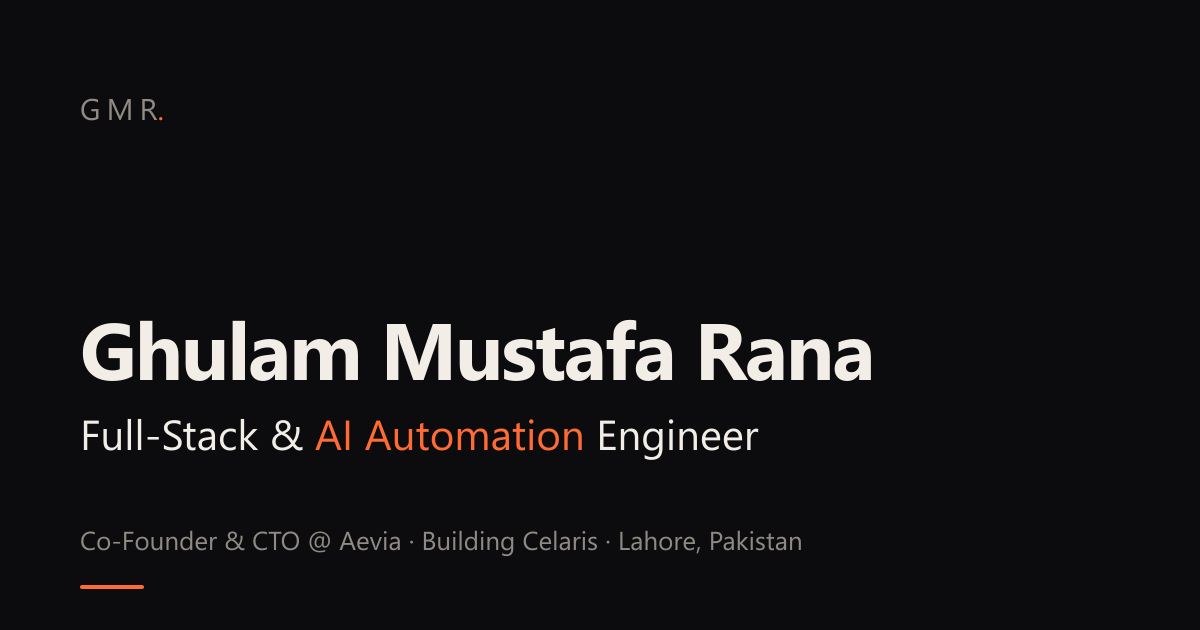
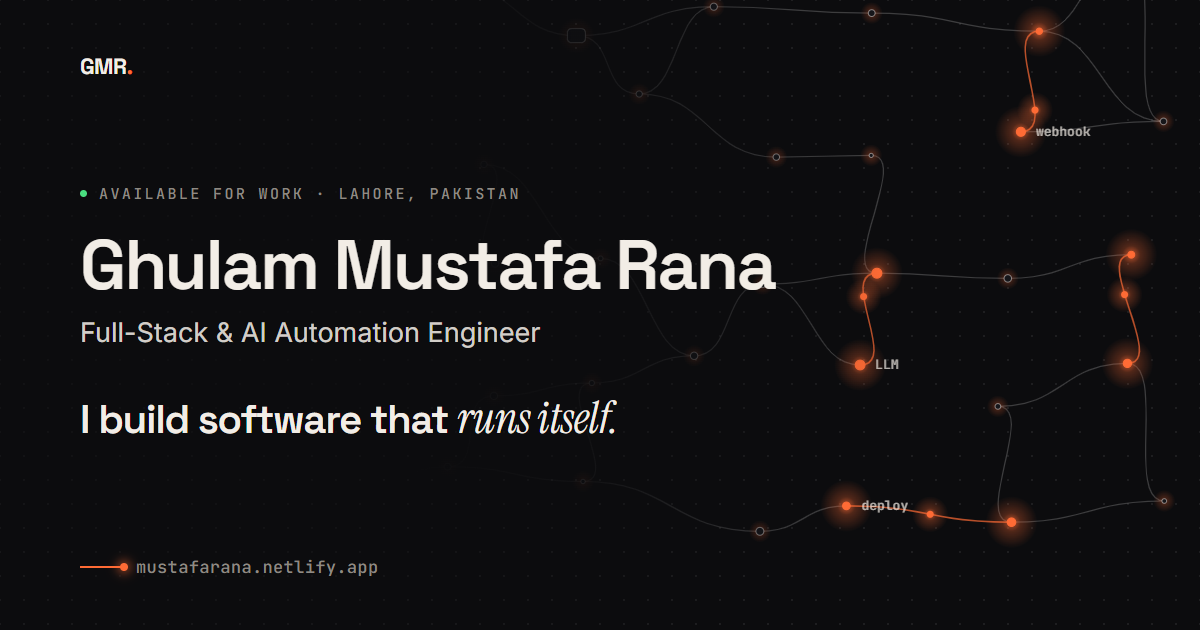
New OG image

diff --git a/README.md b/README.md
@@ -14,7 +14,9 @@ npm run dev              # http://localhost:3000
 npm run build            # static site in ./out (+ responsive WebP images)
 npm start                # serve ./out locally
 npm run prepare-images   # re-crop/compress raw files from ./images, cut out the portrait
-                         # background (@imgly, runs in its own process), regenerate og.png
+                         # background (@imgly, runs in its own process)
+npm run og-image         # public/og.png (1200×630): hero wire network + name/title/tagline in the
+                         # site's fonts (taken from the build, so run npm run build first)
 npm run capture          # every live URL in content.ts → ./captures/<slug>: stills + a deterministic
                          # frame-by-frame scroll-through at 1280x800 (no real-time recording, so a slow
                          # machine cannot drop frames). Sites with a REELS entry (CREASE) get a chapter
